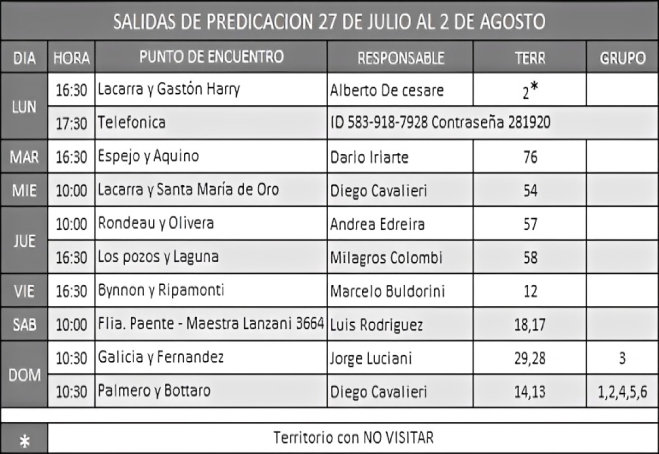
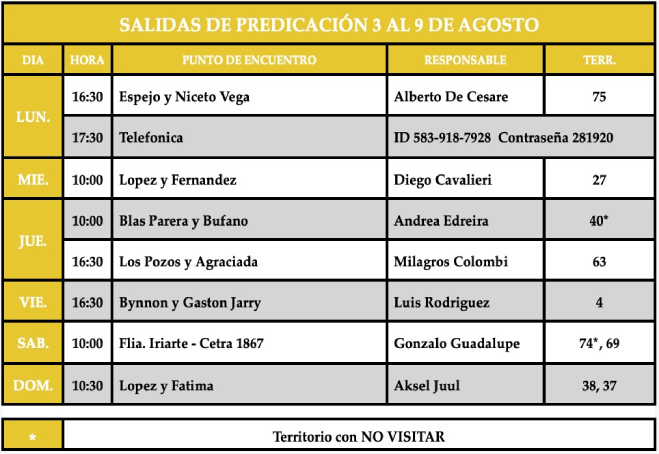
actualizo salida, programa y limpieza

diff --git a/pages/programaSemanal/programaSemanal.html b/pages/programaSemanal/programaSemanal.html
@@ -39,8 +39,8 @@
     <main>
         <section class="reuSemanal">
             <h2> Programa para la reunión entre semana</h2>
-            <img src="./asignacionesJulio1.png" alt="">
-            <img src="./asignacionesJulio2.png" alt="">
+            <img src="./asignacionesAgosto1.png" alt="">
+            <img src="./asignacionesAgosto2.png" alt="">
         </section>
     </main>
     <footer>
